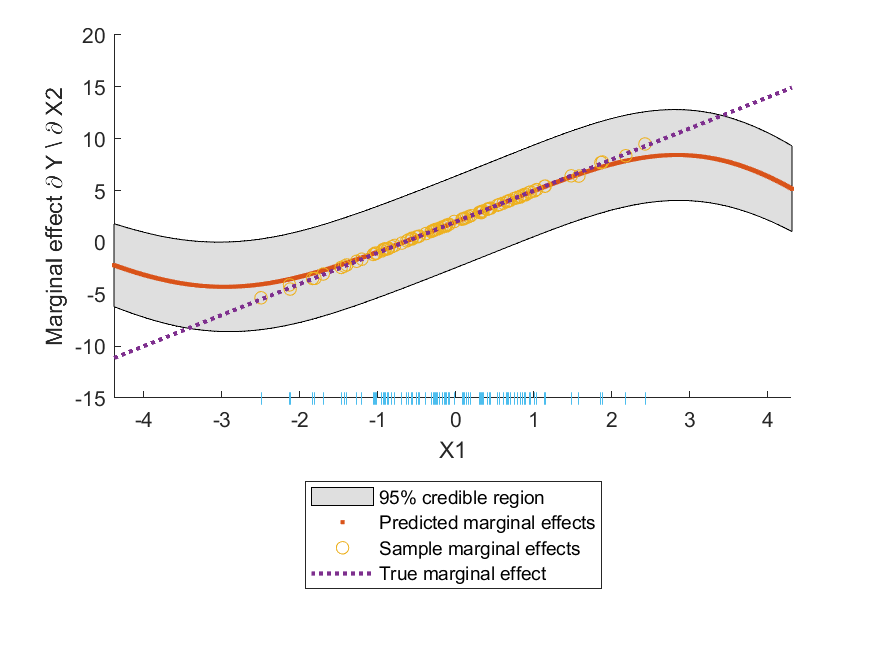
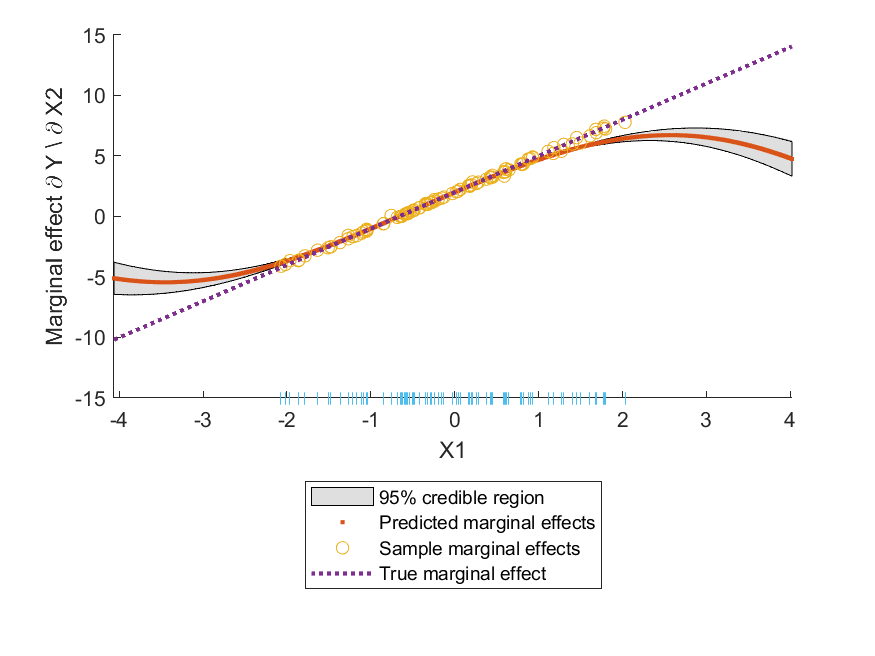
Update simulation plots
I rebuilt me.m, so I need to rebuild the simulation plots. Set rng(1) for each of the simulations for reproducibility. Modify ylim ranges for plots for consistency, especially when comparing covSEiso and covSEard plots.

diff --git a/simulations/bivariate_linear.m b/simulations/bivariate_linear.m
@@ -3,6 +3,7 @@
 clear;
 clc;
 close all;
+rng(1);
 
 %% Make DGP
 
@@ -49,7 +50,7 @@ hold on;
 plot(gridX(:,d), b1*ones(size(gridX,1), 1), ':', 'LineWidth', 2, 'DisplayName', "True marginal effect");
 legend('Location', 'southoutside');
 legend('AutoUpdate', 'off');
-ylim([-2 5])
+ylim([-2 4])
 plot(X(:,d), min(ylim) * ones(size(X(:,d),1)), '|');
 hold off;
 
@@ -65,7 +66,7 @@ hold on;
 plot(gridX(:,d), b2*ones(size(gridX,1), 1), ':', 'LineWidth', 2, 'DisplayName', "True marginal effect");
 legend('Location', 'southoutside');
 legend('AutoUpdate', 'off');
-ylim([-2 5])
+ylim([-2 4])
 plot(X(:,d), min(ylim) * ones(size(X(:,d),1)), '|');
 hold off;
 
@@ -101,7 +102,7 @@ hold on;
 plot(gridX(:,d), b1*ones(size(gridX,1), 1), ':', 'LineWidth', 2, 'DisplayName', "True marginal effect");
 legend('Location', 'southoutside');
 legend('AutoUpdate', 'off');
-ylim([-2 5])
+ylim([-2 4])
 plot(X(:,d), min(ylim) * ones(size(X(:,d),1)), '|');
 hold off;
 
@@ -116,7 +117,7 @@ hold on;
 plot(gridX(:,d), b2*ones(size(gridX,1), 1), ':', 'LineWidth', 2, 'DisplayName', "True marginal effect");
 legend('Location', 'southoutside');
 legend('AutoUpdate', 'off');
-ylim([-2 5])
+ylim([-2 4])
 plot(X(:,d), min(ylim) * ones(size(X(:,d),1)), '|');
 hold off;
 

diff --git a/simulations/jointly_negcorr_bivariate_linear.m b/simulations/jointly_negcorr_bivariate_linear.m
@@ -3,6 +3,7 @@
 clear;
 clc;
 close all;
+rng(1);
 
 %% Make DGP
 
@@ -52,7 +53,7 @@ hold on;
 plot(gridX(:,d), b1*ones(size(gridX,1), 1), ':', 'LineWidth', 2, 'DisplayName', "True marginal effect");
 legend('Location', 'southoutside');
 legend('AutoUpdate', 'off');
-ylim([-2 5])
+ylim([-2 4])
 plot(X(:,d), min(ylim) * ones(size(X(:,d),1)), '|');
 hold off;
 
@@ -68,7 +69,7 @@ hold on;
 plot(gridX(:,d), b2*ones(size(gridX,1), 1), ':', 'LineWidth', 2, 'DisplayName', "True marginal effect");
 legend('Location', 'southoutside');
 legend('AutoUpdate', 'off');
-ylim([-2 5])
+ylim([-2 4])
 plot(X(:,d), min(ylim) * ones(size(X(:,d),1)), '|');
 hold off;
 
@@ -104,7 +105,7 @@ hold on;
 plot(gridX(:,d), b1*ones(size(gridX,1), 1), ':', 'LineWidth', 2, 'DisplayName', "True marginal effect");
 legend('Location', 'southoutside');
 legend('AutoUpdate', 'off');
-ylim([-2 5])
+ylim([-2 4])
 plot(X(:,d), min(ylim) * ones(size(X(:,d),1)), '|');
 hold off;
 
@@ -119,7 +120,7 @@ hold on;
 plot(gridX(:,d), b2*ones(size(gridX,1), 1), ':', 'LineWidth', 2, 'DisplayName', "True marginal effect");
 legend('Location', 'southoutside');
 legend('AutoUpdate', 'off');
-ylim([-2 5])
+ylim([-2 4])
 plot(X(:,d), min(ylim) * ones(size(X(:,d),1)), '|');
 hold off;
 

diff --git a/simulations/jointly_poscorr_bivariate_linear.m b/simulations/jointly_poscorr_bivariate_linear.m
@@ -3,6 +3,7 @@
 clear;
 clc;
 close all;
+rng(1);
 
 %% Make DGP
 
@@ -52,7 +53,7 @@ hold on;
 plot(gridX(:,d), b1*ones(size(gridX,1), 1), ':', 'LineWidth', 2, 'DisplayName', "True marginal effect");
 legend('Location', 'southoutside');
 legend('AutoUpdate', 'off');
-ylim([-2 5])
+ylim([-2 4])
 plot(X(:,d), min(ylim) * ones(size(X(:,d),1)), '|');
 hold off;
 
@@ -68,7 +69,7 @@ hold on;
 plot(gridX(:,d), b2*ones(size(gridX,1), 1), ':', 'LineWidth', 2, 'DisplayName', "True marginal effect");
 legend('Location', 'southoutside');
 legend('AutoUpdate', 'off');
-ylim([-2 5])
+ylim([-2 4])
 plot(X(:,d), min(ylim) * ones(size(X(:,d),1)), '|');
 hold off;
 
@@ -104,7 +105,7 @@ hold on;
 plot(gridX(:,d), b1*ones(size(gridX,1), 1), ':', 'LineWidth', 2, 'DisplayName', "True marginal effect");
 legend('Location', 'southoutside');
 legend('AutoUpdate', 'off');
-ylim([-2 5])
+ylim([-2 4])
 plot(X(:,d), min(ylim) * ones(size(X(:,d),1)), '|');
 hold off;
 
@@ -119,7 +120,7 @@ hold on;
 plot(gridX(:,d), b2*ones(size(gridX,1), 1), ':', 'LineWidth', 2, 'DisplayName', "True marginal effect");
 legend('Location', 'southoutside');
 legend('AutoUpdate', 'off');
-ylim([-2 5])
+ylim([-2 4])
 plot(X(:,d), min(ylim) * ones(size(X(:,d),1)), '|');
 hold off;
 

diff --git a/simulations/bivariate_linear_interaction.m b/simulations/bivariate_linear_interaction.m
@@ -3,6 +3,7 @@
 clear;
 clc;
 close all;
+rng(1);
 
 %% Make DGP
 
@@ -53,7 +54,7 @@ xlabel('X2');
 ylabel('Marginal effect \partial Y \\ \partial X1')
 legend('Location', 'southoutside');
 legend('AutoUpdate', 'off');
-ylim([-15 20])
+ylim([-15 15])
 plot(X(:,2), min(ylim) * ones(size(X(:,2),1)), '|');
 hold off;
 
@@ -73,7 +74,7 @@ xlabel('X1');
 ylabel('Marginal effect \partial Y \\ \partial X2')
 legend('Location', 'southoutside');
 legend('AutoUpdate', 'off');
-ylim([-15 20])
+ylim([-15 15])
 plot(X(:,1), min(ylim) * ones(size(X(:,1),1)), '|');
 hold off;
 
@@ -113,7 +114,7 @@ xlabel('X2');
 ylabel('Marginal effect \partial Y \\ \partial X1')
 legend('Location', 'southoutside');
 legend('AutoUpdate', 'off');
-ylim([-15 20])
+ylim([-15 15])
 plot(X(:,2), min(ylim) * ones(size(X(:,2),1)), '|');
 hold off;
 
@@ -133,7 +134,7 @@ xlabel('X1');
 ylabel('Marginal effect \partial Y \\ \partial X2')
 legend('Location', 'southoutside');
 legend('AutoUpdate', 'off');
-ylim([-15 20])
+ylim([-15 15])
 plot(X(:,1), min(ylim) * ones(size(X(:,1),1)), '|');
 hold off;
 

diff --git a/simulations/jointly_negcorr_bivariate_linear_interaction.m b/simulations/jointly_negcorr_bivariate_linear_interaction.m
@@ -3,6 +3,7 @@
 clear;
 clc;
 close all;
+rng(1);
 
 %% Make DGP
 
@@ -56,7 +57,7 @@ xlabel('X2');
 ylabel('Marginal effect \partial Y \\ \partial X1')
 legend('Location', 'southoutside');
 legend('AutoUpdate', 'off');
-ylim([-15 20])
+ylim([-15 15])
 plot(X(:,2), min(ylim) * ones(size(X(:,2),1)), '|');
 hold off;
 
@@ -76,7 +77,7 @@ xlabel('X1');
 ylabel('Marginal effect \partial Y \\ \partial X2')
 legend('Location', 'southoutside');
 legend('AutoUpdate', 'off');
-ylim([-15 20])
+ylim([-15 15])
 plot(X(:,1), min(ylim) * ones(size(X(:,1),1)), '|');
 hold off;
 
@@ -116,7 +117,7 @@ xlabel('X2');
 ylabel('Marginal effect \partial Y \\ \partial X1')
 legend('Location', 'southoutside');
 legend('AutoUpdate', 'off');
-ylim([-15 20])
+ylim([-15 15])
 plot(X(:,2), min(ylim) * ones(size(X(:,2),1)), '|');
 hold off;
 
@@ -136,7 +137,7 @@ xlabel('X1');
 ylabel('Marginal effect \partial Y \\ \partial X2')
 legend('Location', 'southoutside');
 legend('AutoUpdate', 'off');
-ylim([-15 20])
+ylim([-15 15])
 plot(X(:,1), min(ylim) * ones(size(X(:,1),1)), '|');
 hold off;
 

diff --git a/simulations/jointly_poscorr_bivariate_linear_interaction.m b/simulations/jointly_poscorr_bivariate_linear_interaction.m
@@ -3,6 +3,7 @@
 clear;
 clc;
 close all;
+rng(1);
 
 %% Make DGP
 
@@ -56,7 +57,7 @@ xlabel('X2');
 ylabel('Marginal effect \partial Y \\ \partial X1')
 legend('Location', 'southoutside');
 legend('AutoUpdate', 'off');
-ylim([-15 20])
+ylim([-15 15])
 plot(X(:,2), min(ylim) * ones(size(X(:,2),1)), '|');
 hold off;
 
@@ -76,7 +77,7 @@ xlabel('X1');
 ylabel('Marginal effect \partial Y \\ \partial X2')
 legend('Location', 'southoutside');
 legend('AutoUpdate', 'off');
-ylim([-15 20])
+ylim([-15 15])
 plot(X(:,1), min(ylim) * ones(size(X(:,1),1)), '|');
 hold off;
 
@@ -116,7 +117,7 @@ xlabel('X2');
 ylabel('Marginal effect \partial Y \\ \partial X1')
 legend('Location', 'southoutside');
 legend('AutoUpdate', 'off');
-ylim([-15 20])
+ylim([-15 15])
 plot(X(:,2), min(ylim) * ones(size(X(:,2),1)), '|');
 hold off;
 
@@ -136,7 +137,7 @@ xlabel('X1');
 ylabel('Marginal effect \partial Y \\ \partial X2')
 legend('Location', 'southoutside');
 legend('AutoUpdate', 'off');
-ylim([-15 20])
+ylim([-15 15])
 plot(X(:,1), min(ylim) * ones(size(X(:,1),1)), '|');
 hold off;
 

diff --git a/simulations/univariate_cubic.m b/simulations/univariate_cubic.m
@@ -3,6 +3,7 @@
 clear;
 clc;
 close all;
+rng(1);
 
 %% Make DGP
 
@@ -47,6 +48,7 @@ numsteps=500;
 [ univariate_cubic_iso, gridX ] = gridme(d, numsteps, hyp_iso, meanfunc, covfunc, X, y);
 hold on;
 plot(gridX(:,d), b1 + (2*b2)*gridX(:,d) + (3*b3)*gridX(:,d).^2, ':', 'LineWidth', 2, 'DisplayName', "True marginal effect");
+ylim([-20 80])
 legend('Location', 'southoutside');
 legend('AutoUpdate', 'off');
 plot(X(:,d), min(ylim) * ones(size(X(:,d),1)), '|');

diff --git a/simulations/univariate_quadratic.m b/simulations/univariate_quadratic.m
@@ -3,6 +3,7 @@
 clear;
 clc;
 close all;
+rng(1);
 
 %% Make DGP
 
@@ -47,6 +48,7 @@ numsteps=500;
 [ univariate_quadratic_iso, gridX ] = gridme(d, numsteps, hyp_iso, meanfunc, covfunc, X, y);
 hold on;
 plot(gridX(:,d), b1+ (2*b2)*gridX(:,d), ':', 'LineWidth', 2, 'DisplayName', "True marginal effect");
+ylim([-15 15])
 legend('Location', 'southoutside');
 legend('AutoUpdate', 'off');
 plot(X(:,d), min(ylim) * ones(size(X(:,d),1)), '|');

diff --git a/simulations/univariate_linear.m b/simulations/univariate_linear.m
@@ -3,6 +3,7 @@
 clear;
 clc;
 close all;
+rng(1);
 
 %% Make DGP
 
@@ -46,6 +47,7 @@ numsteps=500;
 [ univariate_linear_iso, gridX] = gridme(d, numsteps, hyp_iso, meanfunc, covfunc, X, y);
 hold on;
 plot(gridX(:,d), b1*ones(size(gridX,1),1), ':', 'LineWidth', 2, 'DisplayName', "True marginal effect");
+ylim([-2 4])
 legend('Location', 'southoutside');
 legend('AutoUpdate', 'off');
 plot(X(:,d), min(ylim) * ones(size(X(:,d),1)), '|')
